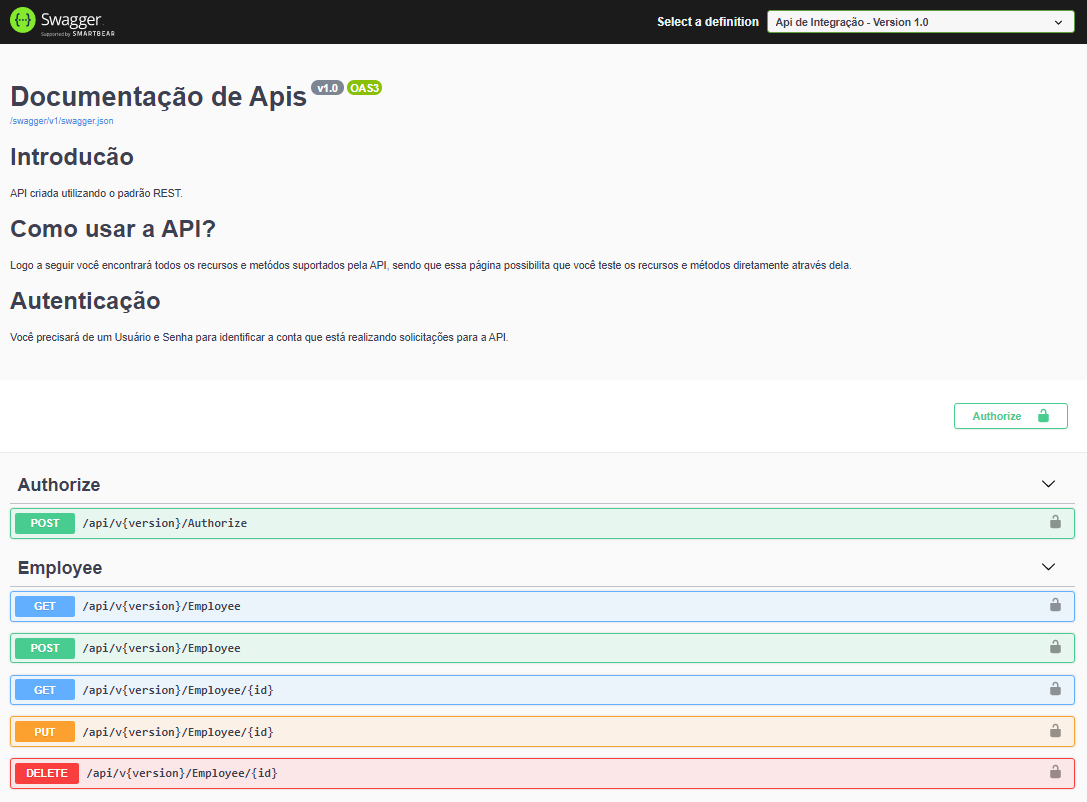
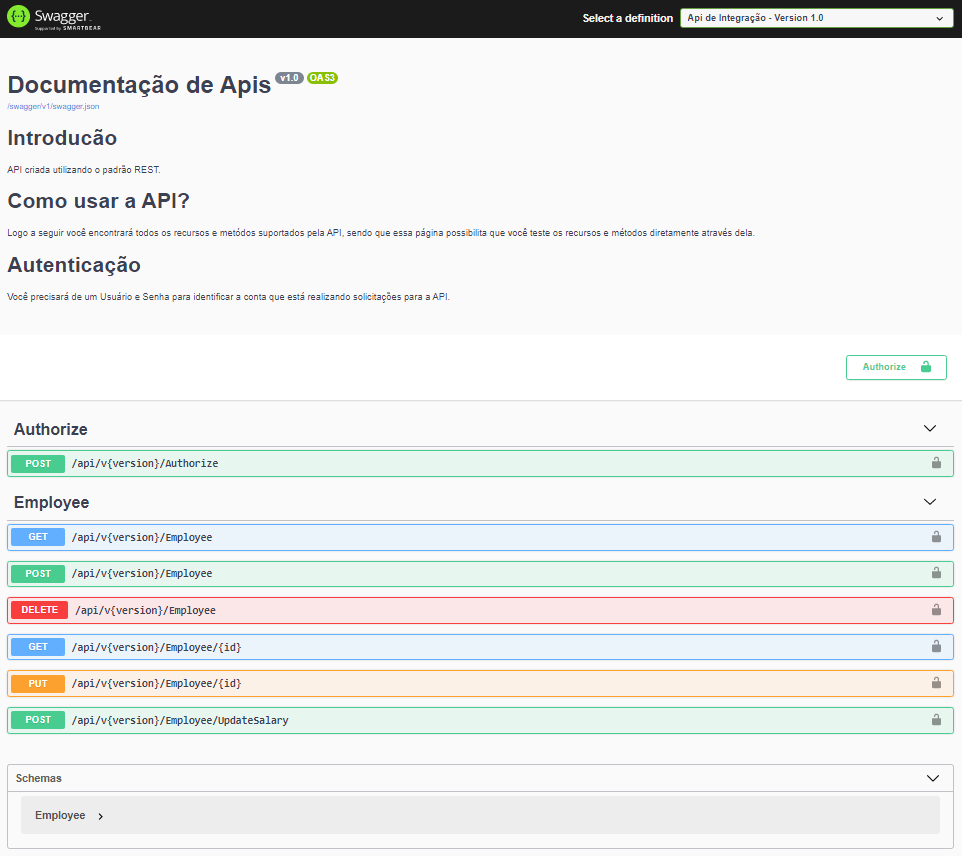
Ajustes na arquitetura e implementação do FluentValidation.

Changed region(s): [[0.0, 0.4988, 0.9979, 0.9975], [0.0, 0.0, 1.0, 0.4364], [0.8732, 0.4052, 0.9667, 0.4364]]

diff --git a/src/Application.Ui.Api/Controllers/EmployeeController.cs b/src/Application.Ui.Api/Controllers/EmployeeController.cs
@@ -1,7 +1,10 @@
 using Integration.Domain.Core.Interfaces.Services;
+using Integration.Domain.Entities;
 using Microsoft.AspNetCore.Mvc;
+using Microsoft.Extensions.Logging;
 using System;
 using System.Collections.Generic;
+using System.Web.Http;
 
 namespace Application.Ui.Api.Controllers
 {
@@ -12,29 +15,19 @@ namespace Application.Ui.Api.Controllers
     public class EmployeeController : ControllerBase
     {
         private readonly IEmployeeService _employeeService;
+        private readonly ILogger<EmployeeController> _logger;
 
-        public EmployeeController(IEmployeeService employeeService)
+        public EmployeeController(IEmployeeService employeeService, ILogger<EmployeeController> logger)
         {
             _employeeService = employeeService;
+            _logger = logger;
         }
 
         [HttpGet]
         public ActionResult<IEnumerable<string>> Get()
         {
-            try
-            {
-                // var _employee = _employeeService.GetAll(page, length);
-                var _employee = _employeeService.GetAll();
-                return new OkObjectResult(_employee);
-            }
-            catch (ArgumentNullException e)
-            {
-                return NotFound(e.Message);
-            }
-            catch (Exception e)
-            {
-                return BadRequest(e.Message);
-            }
+            var _employee = _employeeService.GetAll();
+            return new OkObjectResult(_employee);
         }
 
         [HttpGet("{id}")]
@@ -45,18 +38,32 @@ namespace Application.Ui.Api.Controllers
         }
 
         [HttpPost]
-        public void Post([FromBody] string value)
+        public IActionResult Post([FromBody] Employee employee)
         {
+            employee.ConfirmationIntegration();
+            var returnEmp = _employeeService.Add(employee);
+
+            return new OkObjectResult(returnEmp);
+        }
+
+        [HttpPost("UpdateSalary")]
+        public IActionResult UpdateSalary([FromBody] Guid id)
+        {
+            var returnEmp = _employeeService.UpdateSalary(id);
+            return new OkObjectResult(returnEmp);
         }
 
         [HttpPut("{id}")]
-        public void Put(int id, [FromBody] string value)
-        {
-        }
+        public IActionResult Put(Guid id, [FromBody] Employee employee) 
+            => Ok();
 
-        [HttpDelete("{id}")]
-        public void Delete(int id)
+        [HttpDelete]
+        public IActionResult Delete([FromUri] Guid id)
         {
+            var _employee = _employeeService.GetById(id);
+            _employeeService.Remove(_employee);
+
+            return Ok();
         }
     }
 }

diff --git a/src/Integration.InfraStructure.Ioc/DependencyInjection.cs b/src/Integration.InfraStructure.Ioc/DependencyInjection.cs
@@ -1,5 +1,7 @@
-using Integration.Domain.Core.Interfaces.Repositories;
+using FluentValidation;
+using Integration.Domain.Core.Interfaces.Repositories;
 using Integration.Domain.Core.Interfaces.Services;
+using Integration.Domain.Entities;
 using Integration.Domain.Services.Services;
 using Integration.InfraStruture.Data.Repositories;
 using Microsoft.Extensions.DependencyInjection;
@@ -13,9 +15,14 @@ namespace Integration.InfraStructure.Ioc
             services.AddScoped<IEmployeeService, EmployeeService>();
         }
 
-        public static void DependencyInjectionRepository(ref IServiceCollection services)
+        public static void DependencyInjectionRepositories(ref IServiceCollection services)
         {
             services.AddScoped<IEmployeeRepository, EmployeeRepository>();
+        }
+
+        public static void DependencyInjectionValidations(ref IServiceCollection services)
+        {
+            services.AddTransient<IValidator<Employee>, EmployeeValidation>();
         }
     }
 }

diff --git a/src/Application.Ui.Api/Dtos/EmployeeDto.cs b/src/Application.Ui.Api/Dtos/EmployeeDto.cs
@@ -1,0 +1,23 @@
+using Integration.Domain.Entities;
+using System;
+using System.Collections.Generic;
+using System.ComponentModel.DataAnnotations;
+using System.Linq;
+using System.Threading.Tasks;
+
+namespace Application.Ui.Api.Dtos
+{
+    //[FluentValidation.Attributes.Validator(typeof(EmployeeValidator))]
+    public class EmployeeDto
+    {
+        //[Required(ErrorMessage = "O campo {0} é obrigatório")]
+        //[StringLength(100, ErrorMessage = "O campo {0} precisa ter entre {2} e {100} caracteres", MinimumLength = 2)]
+        public string Name { get; private set; }
+
+        //[Required(ErrorMessage = "O campo {1} é obrigatório")]
+        public string Salary { get; private set; }
+
+        //[Required(ErrorMessage = "O campo {2} é obrigatório")]
+        public string Email { get; private set; }
+    }
+}

diff --git a/src/Integration.Domain.Services/Services/EmployeeService.cs b/src/Integration.Domain.Services/Services/EmployeeService.cs
@@ -1,6 +1,7 @@
 using Integration.Domain.Core.Interfaces.Repositories;
 using Integration.Domain.Core.Interfaces.Services;
 using Integration.Domain.Entities;
+using System;
 
 namespace Integration.Domain.Services.Services
 {
@@ -11,6 +12,19 @@ namespace Integration.Domain.Services.Services
         public EmployeeService(IEmployeeRepository employeeRepository) : base(employeeRepository)
         {
             _employeeRepository = employeeRepository;
+        }
+
+        public Employee UpdateSalary(Guid idEmployee)
+        {
+            var employee = _employeeRepository.GetById(idEmployee);
+            
+            if (employee != null)
+            {
+                employee.UpdateSalary(7);
+                _employeeRepository.Update(employee);
+            }
+
+            return employee;
         }
     }
 }

diff --git a/src/Application.Ui.Api/Filters/ValidationFilter.cs b/src/Application.Ui.Api/Filters/ValidationFilter.cs
@@ -1,0 +1,22 @@
+using Microsoft.AspNetCore.Mvc;
+using Microsoft.AspNetCore.Mvc.Filters;
+using System;
+
+namespace Application.Ui.Api.Filters
+{
+    public class ValidationFilter : IActionFilter
+    {
+        public void OnActionExecuted(ActionExecutedContext context)
+        {
+            //throw new NotImplementedException();
+        }
+
+        public void OnActionExecuting(ActionExecutingContext context)
+        {
+            if (!context.ModelState.IsValid)
+            {
+                context.Result = new BadRequestObjectResult(context.ModelState);
+            }
+        }
+    }
+}

diff --git a/src/Integration.Domain/Entities/Employee.cs b/src/Integration.Domain/Entities/Employee.cs
@@ -18,7 +18,7 @@ namespace Integration.Domain.Entities
 
         public bool UpdateSalary(double valorPercent)
         {
-            Salary = Salary * valorPercent;
+            Salary *= valorPercent;
             return true;
         }
 
@@ -46,6 +46,7 @@ namespace Integration.Domain.Entities
 
             RuleFor(c => c.Email)
                 .NotEmpty()
+                .EmailAddress()
                 .WithMessage(EmailErroMsg);
         }
     }

diff --git a/src/Integration.Domain.Core/Interfaces/Services/IEmployeeService.cs b/src/Integration.Domain.Core/Interfaces/Services/IEmployeeService.cs
@@ -1,7 +1,15 @@
 using Integration.Domain.Entities;
+using System;
 
 namespace Integration.Domain.Core.Interfaces.Services
 {
     public interface IEmployeeService : IServiceBase<Employee>
-    { }
+    {
+        /// <summary>
+        /// Méthod for Update Salary
+        /// </summary>
+        /// <param name="idEmployee"></param>
+        /// <returns></returns>
+        Employee UpdateSalary(Guid idEmployee);
+    }
 }

diff --git a/src/Integration.Domain.Services/Services/ServiceBase.cs b/src/Integration.Domain.Services/Services/ServiceBase.cs
@@ -14,9 +14,9 @@ namespace Integration.Domain.Services.Services
             _repository = Repository;
         }
 
-        public virtual void Add(TEntity obj)
+        public virtual TEntity Add(TEntity obj)
         {
-            _repository.Add(obj);
+            return _repository.Add(obj);
         }
 
         public virtual TEntity GetById(object id)

diff --git a/src/Application.Ui.Api/Controllers/AuthorizeController.cs b/src/Application.Ui.Api/Controllers/AuthorizeController.cs
@@ -9,8 +9,9 @@ namespace Application.Ui.Api.Controllers
     public class AuthorizeController : ControllerBase
     {
         [HttpPost]
-        public void Post([FromBody] string value)
+        public IActionResult Post([FromBody] string value)
         {
+            return Ok();
         }
     }
 }

diff --git a/src/Application.Ui.Api/Program.cs b/src/Application.Ui.Api/Program.cs
@@ -1,11 +1,5 @@
 using Microsoft.AspNetCore.Hosting;
-using Microsoft.Extensions.Configuration;
 using Microsoft.Extensions.Hosting;
-using Microsoft.Extensions.Logging;
-using System;
-using System.Collections.Generic;
-using System.Linq;
-using System.Threading.Tasks;
 
 namespace Application.Ui.Api
 {

diff --git a/src/Integration.Domain.Core/Interfaces/Services/IServiceBase.cs b/src/Integration.Domain.Core/Interfaces/Services/IServiceBase.cs
@@ -4,7 +4,7 @@ namespace Integration.Domain.Core.Interfaces.Services
 {
     public interface IServiceBase<TEntity> where TEntity : class
     {
-        void Add(TEntity obj);
+        TEntity Add(TEntity obj);
 
         TEntity GetById(object id);
 
